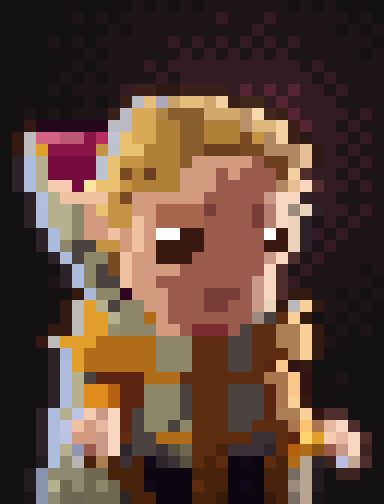
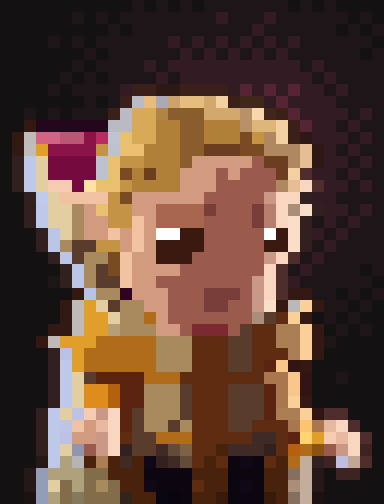
Director fixes: Invoker palette + steady orb light, bars above heads (wider), lean by camera up (no off-centre tilt), 1 px outline, Sun Strike strong light
- voxactors: lean tilts about the shared camera up vector (leanOf), so off-centre units no longer lean sideways; pick boxes, bars, Invoker FX and orbs use the same math
- HP bars anchor to the leaned head top with a gap, wider (hero 24 / creep 10 per unit, hero min 64)
- Invoker: warmer, deeper coat ramps; orb light is small and steady (no ground flicker / body wash); portrait regenerated
- Sun Strike: impact light x2 intensity and wider, extra column light, hotter HDR ray / core, taller flame bands, denser flame pixels, fainter smoke
- post: outline 1 px

diff --git a/client/src/render/fx/invoker.js b/client/src/render/fx/invoker.js
@@ -5,7 +5,7 @@
 // Lights: c.glow / c.lightNow kept moderate (c.glow already x0.6): subtle bloom, never a whiteout.
 import { EV } from '../../../../shared/protocol.js';
 import { PAL, ORB, rnd, pick, TAU, elemMul } from './common.js';
-import { LEAN_TO, LEAN_K } from '../voxactors.js';
+import { leanOf } from '../voxactors.js';
 
 const ELEM_PAL = { Q: PAL.ice, W: PAL.arc, E: PAL.fire };
 const COLD = [0.7, 1.6, 2.6];
@@ -38,13 +38,9 @@ export function register(c, R) {
   // plus the foot pull that keeps geometry there in front of / behind him like his own foot card (see geo3d foot). Shared result object.
   const _b = { x: 0, y: 0, z: 0, pull: 20 };
   function bodyAt(u, h) {
-    const z0 = u.z || 0, cp = c.uniforms && c.uniforms.uCamPos ? c.uniforms.uCamPos.value : null;
+    const z0 = u.z || 0, up = c.uniforms && c.uniforms.uCamUp ? c.uniforms.uCamUp.value : null;
     let s = 0, co = 1, vx = 0, vy = -1;
-    if (cp) {
-      const dx = cp.x - u.x, dy = -cp.z - u.y, l = Math.hypot(dx, dy);
-      if (l > 1) { vx = dx / l; vy = dy / l; }
-      const th = Math.max(0, Math.atan2(cp.y - z0, l) - LEAN_TO) * LEAN_K; s = Math.sin(th); co = Math.cos(th);
-    }
+    if (up) { const L = leanOf(up); vx = -L.dx; vy = -L.dy; s = Math.sin(L.th); co = Math.cos(L.th); }   // v = toward the camera
     _b.x = u.x - vx * h * s; _b.y = u.y - vy * h * s; _b.z = z0 + h * co; _b.pull = 20 + h * s;
     return _b;
   }
@@ -393,13 +389,14 @@ export function register(c, R) {
   // r 132, 1.1 s), ring_b (#8b4715, r 240, 0.35 s), ground glows glow_b / c / d (white -> #833839, #febc80 / #fde06b), glow_e (peach,
   // 0.25-0.45 s), light (r 700 -> 175, 1.25 s), dark smoke burst (#081830, alpha over) + ambient smoke (#5a5955, 2.8 s + 2-2.5 s), sparks /
   // ash / flame / ambient sparks as 1/4-count pixels, crater (#ceb5a4, 5.2 s) + scorch (8 s) decals.
-  // Director tweak (flamier, emissive): hotter yellow -> orange palette (ray / beam / rings / glows), HDR ray core, 3 licking flame bands +
-  // hot core at the base (1.1 s), rising flame pixels, lighter dark smoke.
+  // Director tweaks (flamier, emissive, a strong light): hotter yellow -> orange palette (ray / beam / rings / glows), HDR ray core, 3 tall
+  // licking flame bands + hot core at the base (1.4 s), dense rising flame pixels, faint dark smoke; the light is a strong warm one (impact
+  // r up to ~900, plus a second light up the column while the ray burns) that floods the ground and every unit near it.
   const SS = {
     team: [0.42, 0.41, 0.36], teamB: [0.55, 0.57, 0.6], edge0: [0.5, 0.5, 0.5], edge1: [0.42, 0.3, 0.07], glowS: [0.4, 0.44, 0.48],
     flare0: [1.0, 0.93, 0.85], flare1: [1.0, 0.24, 0.0],
-    ray0: [1.0, 0.92, 0.6], ray1: [1.0, 0.4, 0.06], beam: [0.95, 0.34, 0.05], ringB: [1.0, 0.46, 0.1], ringC: [1.0, 0.7, 0.35],
-    ring: [0.75, 0.36, 0.12], glwB0: [1.0, 0.6, 0.2], glwB1: [0.4, 0.08, 0.02], flm: [1.0, 0.36, 0.04], flmCore: [1.5, 0.9, 0.3], glw: [1.0, 0.81, 0.46], grey0: [0.15, 0.15, 0.15],
+    ray0: [1.0, 0.84, 0.4], ray1: [1.0, 0.36, 0.04], beam: [0.95, 0.34, 0.05], ringB: [1.0, 0.46, 0.1], ringC: [1.0, 0.7, 0.35],
+    ring: [0.75, 0.36, 0.12], glwB0: [1.0, 0.6, 0.2], glwB1: [0.4, 0.08, 0.02], flm: [1.2, 0.42, 0.05], flmCore: [2.2, 1.2, 0.32], glw: [1.0, 0.81, 0.46], grey0: [0.15, 0.15, 0.15],
     glowE: [1.0, 0.78, 0.68], dark: [0.03, 0.09, 0.19], smoke: [0.42, 0.42, 0.4],
   };
   const SS_SPK = { hot: [1.25, 0.88, 0.6], mid: [0.9, 0.62, 0.4], low: [0.55, 0.16, 0.03], dim: [0.2, 0.05, 0.01], lt: [1, 0.6, 0.3], ramp: null };   // #876146 / #5d5235 -> #591805
@@ -448,14 +445,14 @@ export function register(c, R) {
       const cRay = [0, 0, 0], cCore = [0, 0, 0], cB = [0, 0, 0], cC = [0, 0, 0];
       const oFl = [0, 1, 2].map(() => ({ sweep: TAU / 3 - 0.3, start: 0, edge: 0.35, swirl: 0.9, pow: 0.9, flare: 1, top: 0.45, phase: 0, foot: z, footPull: 20 }));
       const oFc = { swirl: 0.6, pow: 0.6, top: 0.4, phase: 0, foot: z, footPull: 20 };
-      const lt = c.glow(x, y, z + 64, SS.glw, rad * 4, 0, 1.25, { mode: 'flat' });
+      const lt = c.glow(x, y, z + 64, SS.glw, rad * 4, 0, 1.25, { mode: 'flat' }), ltR = c.glow(x, y, z + 240, SS.ray0, rad * 3, 0, 0.7, { mode: 'flat' });
       c.run(1.6, (r, dt) => {
         const t = r.t;
         if (t < 0.6) {                                                                                  // ray (0.6 s) + ray_b (0.5 s, the hot core)
           const k = t / 0.6, s = k < 0.6 ? 2 - 1.9 * k / 0.6 : k < 0.75 ? 0.1 : 0.1 + 0.9 * ssBias((k - 0.75) / 0.25, 0.15);
           const R0 = rad * 0.5 * s;
-          G.tube(x, y, z, 1000, R0, R0, mix3(cRay, SS.ray0, SS.ray1, k, 1.1), Math.min(1, k / 0.25, (1 - k) / 0.5), oRay);
-          if (t < 0.5) G.tube(x, y, z, 1000, R0 * 0.3, R0 * 0.3, mix3(cCore, SS.ray0, SS.ray1, t / 0.5, 2.0), Math.min(1, t / 0.125, (0.5 - t) / 0.375), oCore);
+          G.tube(x, y, z, 1000, R0, R0, mix3(cRay, SS.ray0, SS.ray1, k, 1.45), Math.min(1, k / 0.25, (1 - k) / 0.5), oRay);
+          if (t < 0.5) G.tube(x, y, z, 1000, R0 * 0.3, R0 * 0.3, mix3(cCore, SS.ray0, SS.ray1, t / 0.5, 2.6), Math.min(1, t / 0.125, (0.5 - t) / 0.375), oCore);
           const kb = Math.min(1, t / 0.3), Rb = 288 - 252 * ssBias(kb, 0.85);                           // beam: trails r 576 -> 32 (half), alpha ~.05
           G.tube(x, y, z + 128, 1700 * kb, Rb, Rb * 0.5, SS.beam, 0.6 * (1 - k), oBeam);
         }
@@ -473,14 +470,15 @@ export function register(c, R) {
         { const k = t / 1.5; G.disc(x, y, gz, 560 * ssBias(Math.min(1, k), 0.75), 3, mix3(cC, SS.glw, SS.grey0, Math.max(0, k - 0.33) / 1.0, 0.3), 1 - k, dGC); }   // glow_c (mod2x)
         if (t < 1) G.disc(x, y, gz, rad * 0.8 * (2 - 1.9 * Math.min(1, t / 0.5)), 3, SS.glw, 0.55 * (1 - t), dGD);               // glow_d
         if (t < 0.45) { const k = Math.min(1, t / 0.35); G.orb(x, y, z + 8, 6 * (1 + 47 * ssBias(k, 0.65)) * 0.35, SS.glowE, 0.3 * (1 - k), G.GLOW, oE); }   // glow_e (mod2x)
-        if (t < 1.25) { const k = t / 1.25; lt.rad = rad * 2 * (2 - 1.5 * ssBias(k, 0.25)); lt.int = 1.6 * Math.min(1, k / 0.25, (1 - k) / 0.75); }   // light
-        if (t < 0.6) { const e = 1 - (1 - t / 0.6) * (1 - t / 0.6); oDark.phase = c.T * 2; G.tube(x, y, z, 30 + 140 * e, 50 + 110 * e, 40 + 130 * e, SS.dark, 0.3 * (1 - t / 0.6), oDark); }   // orange_smoke (dark)
-        if (t < 1.1) {                                                                                  // flame tongues (director: flamier): 3 licking swirl bands + hot core
-          const e = 1 - Math.pow(1 - Math.min(1, t / 0.15), 3), f = Math.min(1, (1.1 - t) / 0.6), h = 380 * e * (0.6 + 0.4 * f);
-          for (let i = 0; i < 3; i++) { const o = oFl[i]; o.start = TAU * i / 3 + c.T * 2.2; o.phase = c.T * 9 + i * 2; G.tube(x, y, z, h * (1 - 0.15 * i), rad * 0.55, rad * 0.12, SS.flm, 0.9 * f, o); }
-          oFc.phase = c.T * 12; G.tube(x, y, z, h * 0.55, rad * 0.25, rad * 0.06, SS.flmCore, 0.8 * f, oFc);
+        if (t < 1.25) { const k = t / 1.25; lt.rad = rad * 2.6 * (2 - 1.5 * ssBias(k, 0.25)); lt.int = 3.2 * Math.min(1, k / 0.15, (1 - k) / 0.75); }   // light (director: strong)
+        if (t < 0.7) { const k = t / 0.7; ltR.rad = rad * 3; ltR.int = 2.4 * Math.min(1, k / 0.1, (1 - k) / 0.5); }                         // column light while the ray burns
+        if (t < 0.6) { const e = 1 - (1 - t / 0.6) * (1 - t / 0.6); oDark.phase = c.T * 2; G.tube(x, y, z, 30 + 140 * e, 50 + 110 * e, 40 + 130 * e, SS.dark, 0.12 * (1 - t / 0.6), oDark); }   // orange_smoke (dark)
+        if (t < 1.4) {                                                                                  // flame tongues (director: flamier): 3 licking swirl bands + hot core
+          const e = 1 - Math.pow(1 - Math.min(1, t / 0.15), 3), f = Math.min(1, (1.4 - t) / 0.7), h = 520 * e * (0.6 + 0.4 * f);
+          for (let i = 0; i < 3; i++) { const o = oFl[i]; o.start = TAU * i / 3 + c.T * 2.2; o.phase = c.T * 9 + i * 2; G.tube(x, y, z, h * (1 - 0.15 * i), rad * 0.68, rad * 0.14, SS.flm, f, o); }
+          oFc.phase = c.T * 12; G.tube(x, y, z, h * 0.6, rad * 0.3, rad * 0.07, SS.flmCore, 0.9 * f, oFc);
         }
-        if (t < 0.9) { const n = c.n(60 * dt); for (let i = 0; i < n; i++) { const an = Math.random() * TAU, rr = rnd(0, rad * 0.7); P.spawn(c.pix(SS_FLM, { x: x + Math.cos(an) * rr, y: y + Math.sin(an) * rr, z: z + rnd(4, 60), life: [0.4, 0.8], px: [1, 2], speed: 0, up: [180, 420], gravity: 60, drag: 1.2, settle: false })); } }   // rising flame pixels
+        if (t < 1.2) { const n = c.n(150 * dt); for (let i = 0; i < n; i++) { const an = Math.random() * TAU, rr = rnd(0, rad * 0.7); P.spawn(c.pix(SS_FLM, { x: x + Math.cos(an) * rr, y: y + Math.sin(an) * rr, z: z + rnd(4, 60), life: [0.4, 0.8], px: [1, 2], speed: 0, up: [180, 420], gravity: 60, drag: 1.2, settle: false })); } }   // rising flame pixels
         // pixels at 1/4 of the game counts
         if (t < 0.25) { const n = c.n(112 * dt); for (let i = 0; i < n; i++) { const an = Math.random() * TAU; P.spawn(c.pix(SS_SPK, { x: x + Math.cos(an) * 72, y: y + Math.sin(an) * 72, z: z + 4, life: [0.5, 1], px: [1, 2], speed: 0, vel: [rnd(-400, 400), rnd(-400, 400), 0], up: [250, 600], gravity: -650, drag: 0.3 })); } }   // sparks
         if (t < 0.5) { const n = c.n(100 * dt); for (let i = 0; i < n; i++) P.spawn(c.pix(SS_ASH, { x: x + rnd(-30, 30), y: y + rnd(-30, 30), z: z + rnd(3, 300), life: [1, 1.2], px: 1, speed: 0, jitter: 24, up: [100, 200], gravity: -100, drag: 1.5, settle: false })); }   // ashes

diff --git a/client/src/render/index.js b/client/src/render/index.js
@@ -17,7 +17,7 @@ import { createSprites } from './sprites.js';
 import { createActors } from './actors.js';
 import { createBuildings3d } from './buildings3d.js';
 import { createTrees3d } from './trees3d.js';
-import { createVoxActors, LEAN_TO, LEAN_K } from './voxactors.js';
+import { createVoxActors, leanOf as voxLean } from './voxactors.js';
 import { INFO as BINFO } from './buildings3d.js';
 import { pickAt, cylinderBox, minBox } from './pick.js';
 import { createClutter3d } from './clutter3d.js';
@@ -200,12 +200,6 @@ export function createRenderer({ canvas, sheets }) {
     const w = _v4.w; if (w <= 0) return null;
     return { sx: (_v4.x / w * 0.5 + 0.5) * cssW, sy: (1 - (_v4.y / w * 0.5 + 0.5)) * cssH, w, k: 0.5 * cssH * cam.projectionMatrix.elements[5] / w };
   }
-  /** Lean of a voxel model (voxactors.js vertex shader): tilt th about the feet away from the camera. */
-  function leanOf(x, y, z) {
-    const c = rig.camera.position, dx = x - c.x, dz = -y - c.z, hl = Math.hypot(dx, dz);
-    if (hl < 1e-3) return null;
-    return { dx: dx / hl, dy: -dz / hl, th: Math.max(0, Math.atan2(c.y - z, hl) - LEAN_TO) * LEAN_K };
-  }
   /** Screen boxes (css px) of every live unit this frame: [{ id, building, x0, y0, x1, y1, w }]. Voxel units and buildings: world cylinder of the body
    *  through the camera (perspective-correct); sprite units: tight opaque bounds of the drawn frame. */
   function pickBoxes(touch = false) {
@@ -218,7 +212,7 @@ export function createRenderer({ canvas, sheets }) {
         const bi = BINFO[p.b], k = BODY_K[p.b] || BODY_K.filler;
         box = cylinderBox(projCss, p.x, p.y, p.z, bi.R * k[0], bi.H * k[1], { pad: k[2], touch });
       } else if (f.vox) {
-        box = cylinderBox(projCss, p.x, p.y, p.z, (f.hw || f.r) * p.scale, (f.ptop || f.top) * p.scale, { lean: f.lean === false ? null : leanOf(p.x, p.y, p.z), touch });
+        box = cylinderBox(projCss, p.x, p.y, p.z, (f.hw || f.r) * p.scale, (f.ptop || f.top) * p.scale, { lean: f.lean === false ? null : voxLean(uniforms.uCamUp.value), touch });
       } else {
         _v4.set(p.x, p.z, -p.y, 1).applyMatrix4(cam.matrixWorldInverse).applyMatrix4(cam.projectionMatrix);
         const w = _v4.w; if (w <= 0) continue;
@@ -285,7 +279,7 @@ export function createRenderer({ canvas, sheets }) {
   }
 
   // ---- HP bars -------------------------------------------------------------------------------------------------------------------------
-  const BAR_W = { hero: 17, creep: 6, tower: 10, rax: 10, ancient: 14, fountain: 0, building: 8 };
+  const BAR_W = { hero: 24, creep: 10, tower: 10, rax: 10, ancient: 14, fountain: 0, building: 8 };   // art px
   /** 0..1 visibility of world-anchored UI (bars, combat text): 1 in normal play; in the showcase it fades out where the mist starts and behind the camera. k = perspective size factor vs the target. */
   const _e = new THREE.Vector3(), uiVis = { a: 1, k: 1 };
   function uiFade(x, y, z) {
@@ -314,13 +308,21 @@ export function createRenderer({ canvas, sheets }) {
       if (!hero && !hurt && p.id !== actors.state.selected && p.id !== actors.state.hover) continue;
       const aw = BAR_W[u.kind] != null ? BAR_W[u.kind] : 6;
       if (!aw) continue;
-      const bz = p.z + p.f.ay / (p.f.dens || 1) * ART_UNITS_PER_PX * 0.92 * (p.f.vox ? p.scale : 1), vis = uiFade(u.x, u.y, bz);
+      // anchor: the top of the drawn body. Voxel units lean back (voxactors.js leanOf), so their head sits higher on screen than the upright top
+      let bx = u.x, by = u.y, bz;
+      if (p.f.vox) {
+        const ht = (p.f.ptop || p.f.top) * p.scale, L = p.f.lean === false ? null : voxLean(uniforms.uCamUp.value), sn = L ? Math.sin(L.th) * ht : 0;
+        if (L) { bx += L.dx * sn; by += L.dy * sn; }
+        bz = p.z + (L ? Math.cos(L.th) : 1) * ht;
+      } else bz = p.z + p.f.ay / (p.f.dens || 1) * ART_UNITS_PER_PX * 0.92;
+      const vis = uiFade(u.x, u.y, bz);
       if (vis.a <= 0.02) continue;
-      const w = Math.round(Math.min(hero ? 150 : 90, (hero ? Math.max(46, aw * cssPerArt * 0.95) : aw * cssPerArt * 0.95) * vis.k));   // capped: the showcase close-up never draws giant bars
+      const w = Math.round(Math.min(hero ? 190 : 110, (hero ? Math.max(64, aw * cssPerArt * 0.95) : aw * cssPerArt * 0.95) * vis.k));   // capped: the showcase close-up never draws giant bars
       const hh = hero ? Math.max(5, Math.round(Math.max(8, Math.min(14, cssPerArt * 3)) * vis.k)) : 3;   // hero bar: big enough to read on a phone
-      const s = worldToScreen(u.x, u.y, bz);
+      const mana = hero && u.maxMana > 0, stack = hh + 1 + (mana ? (hh >= 7 ? Math.max(3, Math.round(hh * 0.45)) : 2) + 1 : 0);   // overlay.bar: hp + gap + mana + frame
+      const s = worldToScreen(bx, by, bz);
       const mine = u.team === myTeam;
-      overlay.bar({ sx: s.x, sy: s.y - 6 - (hero ? Math.round(hh * 1.8) : 0), w, h: hh, hp: u.hp / u.maxHp, mana: hero && u.maxMana > 0 ? u.mana / u.maxMana : null, color: mine ? undefined : '#e04a3c', maxHp: hero ? u.maxHp : 0, level: hero ? u.level : null, a: vis.a });
+      overlay.bar({ sx: s.x, sy: s.y - (hero ? 6 : 4) - stack, w, h: hh, hp: u.hp / u.maxHp, mana: mana ? u.mana / u.maxMana : null, color: mine ? undefined : '#e04a3c', maxHp: hero ? u.maxHp : 0, level: hero ? u.level : null, a: vis.a });
     }
   }
 

diff --git a/client/src/render/fx/status.js b/client/src/render/fx/status.js
@@ -1,7 +1,7 @@
 // Ambient status visuals (stun stars, hex, magic immunity, slow, invis, channel ...) and the Invoker orbs.
 import { ST } from '../../../../shared/protocol.js';
 import { PAL, ORB, elemMul, rnd, TAU } from './common.js';
-import { LEAN_TO, LEAN_K } from '../voxactors.js';
+import { leanOf } from '../voxactors.js';
 
 const STUN_COL = [3.4, 2.8, 0.7];
 const GOLD = PAL.gold;
@@ -13,8 +13,7 @@ export function register(c, R) {
   const orbBuf = [0, 0, 0];
 
   // Orbs = real 3D geometry (fx/geo3d.js G.orb, GLOW): an HDR core inside a fresnel shell, about head-sized on the chibi (Dota: sphere r 16),
-  // no billboard glow and no sprite quad. Each orb is a real light (tight radius, so the three colours never sum to white): it rims his
-  // side in its element colour and pools on the ground under it.
+  // no billboard glow and no sprite quad. Each orb is a small steady real light: a faint element-colour rim on his side, no ground pool.
   // Depth: voxel units write the depth of their FOOT (mesh3d propDepth: foot card pulled 12 + 8 toward the camera), so the orbs use o.foot
   // with the same pull: an orb on the far half of the ring is hidden whole by his silhouette, one on the near half is drawn whole; the
   // swap happens at the sides, outside his body. Never chopped, never over his face.
@@ -34,15 +33,13 @@ export function register(c, R) {
     const alive = !(u.status & ST.DEAD) && u.hp > 0; if (!alive) return;
     const G = c.G, lo = G.lod === 0;
     // camera direction in the ground plane (three: X = x, Z = -y): which half of the ring is near (particles use real depth, see below)
-    const cp = c.uniforms && c.uniforms.uCamPos ? c.uniforms.uCamPos.value : null;
+    const up = c.uniforms && c.uniforms.uCamUp ? c.uniforms.uCamUp.value : null;
     const z0 = u.z || 0, zc = c.chest(u) + Math.sin(c.T * 2) * 3;   // chest height
     let vx = 0, vy = -1, lc = 1, ls = 0;
-    if (cp) {
-      const dx = cp.x - u.x, dy = -cp.z - u.y, l = Math.hypot(dx, dy);
-      if (l > 1) { vx = dx / l; vy = dy / l; }
-      // follow the voxel lean (voxactors.js): the body tilts back about its feet so the camera sees it from LEAN_TO; the ring tilts with it,
+    if (up) {
+      // follow the voxel lean (voxactors.js leanOf): the body tilts back about its feet so the camera sees it from LEAN_TO; the ring tilts with it,
       // so from the 60 deg game camera the orbs sit round the chest as in the showcase (not at the knees in front, hidden above the head behind)
-      const th = Math.max(0, Math.atan2(cp.y - z0, l) - LEAN_TO) * LEAN_K; lc = Math.cos(th); ls = Math.sin(th);
+      const L = leanOf(up); vx = -L.dx; vy = -L.dy; lc = Math.cos(L.th); ls = Math.sin(L.th);   // v = toward the camera
     }
     const hz = zc - z0;
     oShell.foot = oCore.foot = z0;
@@ -62,9 +59,9 @@ export function register(c, R) {
       const k = ch === 'W' ? (mul > 1 ? 1.15 : 0.8) : mul;
       G.orb(ox, oy, oz, CORE_R * (ch === 'E' ? 0.9 + 0.1 * k : 1), L.core, 0.8 + 0.2 * k, G.GLOW, oCore);
       G.orb(ox, oy, oz, ORB_R, L.shell, k, G.GLOW, oShell);
-      // per-orb light, tight (r 115): rims his side in the element colour + a soft pool on the ground under it. Trainer behaviour:
-      // E flickers, W strobes, Q steady
-      c.lightNow(ox + ca * 16, oy + sa * 16, oz, L.lt, 115, 0.6 * mul, 0);   // set outward a little: grazes his side (rim) rather than washing his front
+      // per-orb light: small (r 70, never reaches the ground from chest height) and steady (the strobe / flicker stays on the orb body: a flickering
+      // ground pool reads as noise), set outward so it only grazes his side; three stronger lights washed his whole body out
+      c.lightNow(ox + ca * 24, oy + sa * 24, oz, L.lt, 70, 0.25, 0);
       // pixels use real depth (they would show through him from behind): only the near half emits. Crisp single art pixels in the
       // element's hot / core colours, no cold ramp steps (a cooled grey pixel left hanging reads as a big square up close)
       if (near < -0.15) continue;

diff --git a/client/src/render/voxactors.js b/client/src/render/voxactors.js
@@ -2,7 +2,7 @@
 // buildings3d.js (shadow map, key + point lights, Bayer-quantised light, fog grade). Outline: an ID pass (idScene: outline colour + per-instance id, same vertex
 // shader and depth) that post.js turns into a 1-art-px silhouette line (render/post.js OUTLINE), so inner depth steps never get a line.
 // What makes a ~44-voxel chibi read from the 60 deg game camera:
-//   - lean: the model tilts back about its feet, away from the camera, so the camera sees it from ~LEAN_TO deg like the offline renders
+//   - lean: the model tilts back about its feet, away from the camera (along its view direction, the same for every unit: leanOf), so the camera sees it from ~LEAN_TO deg like the offline renders
 //     (pitch 30), not from above (top of the hair, no face). Shadow passes use the same lean, so self-shadow lands where it is drawn.
 //   - smooth per-voxel normals (aSm) for the light, so the blocks shade like rounded forms; faces stay voxel-crisp.
 //   - depth = sprites: the foot point (propDepth), so units sort like the 2D sheets.
@@ -60,6 +60,16 @@ export function voxEntry(mod, o = {}) {
 export const VOX_HEROES = VOX_UNITS;   // old name
 export const LEAN_TO = 30 * Math.PI / 180;    // view pitch the model is shown at (deg above the horizon)
 export const LEAN_K = 1;                      // share of (camera pitch - LEAN_TO) taken by the lean
+const _lean = { dx: 0, dy: 1, th: 0 };
+/** The voxel lean, one for every unit on screen (the VERT shader does the same): tilt th about the feet along (dx, dy) in game coords = the view
+ *  camera's horizontal forward, by (camera pitch - LEAN_TO). From the camera up vector (uniforms.uCamUp). Not per unit: a unit off the screen
+ *  centre would lean along its own camera ray (sideways on screen). Shared result object. */
+export function leanOf(up) {
+  const hl = Math.hypot(up.x, up.z);
+  if (hl < 1e-6) { _lean.dx = 0; _lean.dy = 1; _lean.th = 0; return _lean; }
+  _lean.dx = up.x / hl; _lean.dy = -up.z / hl; _lean.th = Math.max(0, Math.atan2(hl, up.y) - LEAN_TO) * LEAN_K;
+  return _lean;
+}
 // voxel death (world units, seconds): burst speed out / up, gravity, bounce restitution, ground slide kept after the bounce, launch stagger,
 // lean release, dissolve start (+ up to DIE_FADE_J per voxel) -> fully gone at DIE_T
 export const DIE_T = 1.45;   // dissolve length, counted from the end of the ragdoll (RAG_T) for heroes
@@ -145,10 +155,9 @@ void main(){
     }
     alpha *= 1. - smoothstep(${DIE_FADE.toFixed(3)} + ${DIE_FADE_J.toFixed(3)} * r0, ${DIE_T.toFixed(3)}, td);
   } else o = rotY(p, c, s) * sc;
-  vec3 tc = uCamPos - iPos;                                     // shadow passes lean too (uCamPos = view camera), so self-shadow matches the drawn body
-  float hl = length(tc.xz);
-  vec2 h = hl > 1e-3 ? -tc.xz / hl : vec2(0., -1.);
-  float th = max(0., atan(tc.y, hl) - uLeanTo) * uLeanK * (1. - die * smoothstep(0., ${DIE_LEAN.toFixed(3)}, dt)), lc = cos(th), ls = sin(th);
+  float hl = length(uCamUp.xz);                                 // view camera forward (its up vector tilts along it): one lean for every unit (leanOf);
+  vec2 h = hl > 1e-6 ? uCamUp.xz / hl : vec2(0., -1.);           // shadow passes lean too (uCamUp = view camera), so self-shadow matches the drawn body
+  float th = max(0., atan(hl, uCamUp.y) - uLeanTo) * uLeanK * (1. - die * smoothstep(0., ${DIE_LEAN.toFixed(3)}, dt)), lc = cos(th), ls = sin(th);
   o = lean(o, h, lc, ls); n = lean(n, h, lc, ls);
   vec3 w = iPos + o;
   vec3 al = aCol;                                                // team voxels: the team colour at the voxel's own ramp luminance

diff --git a/client/src/art/portraits/invoker.js b/client/src/art/portraits/invoker.js
@@ -1,7 +1,7 @@
 // GENERATED by tools/vox/portrait.mjs (invoker) -- do not edit by hand. Voxel HUD portrait 32x42 (= the 32x42 the HUD shows, 1 art px = 1 u), opaque.
 // Loaded by client/src/art/portraits.js, which swaps it into the sheet's 'portrait' frame unless ?vox=0.
 export default {
-  pal: { '0':'#341812', '1':'#0c0611', '2':'#b6b08e', '3':'#f9d6bf', '4':'#5a2410', '5':'#aebcdd', '6':'#3a2019', '7':'#c49444', '8':'#e09e2a', '9':'#f0c2a2', '!':'#141112', '#':'#1e1518', '$':'#331b23', '%':'#9a5a4c', '&':'#5e2c10', '(':'#d29a7e', ')':'#8e8668', '*':'#4c4240', '+':'#2c2228', ',':'#b06c18', '-':'#49220c', '/':'#b08038', ':':'#3a1a10', ';':'#4f2d2d', '<':'#8a5e2c', '=':'#740a3e', '>':'#ca9886', '?':'#6f6951', '@':'#e8c070', 'A':'#a8664e', 'B':'#7a3e3a', 'C':'#ac7e54', 'D':'#3a3036', 'E':'#7a4a22', 'F':'#6a3e1e', 'G':'#f9d098', 'H':'#552435', 'I':'#d8aa58', 'J':'#24071c', 'K':'#af8760', 'L':'#aa764e', 'M':'#8e896f', 'N':'#2d1815', 'O':'#8a1448', 'P':'#ead3ba', 'Q':'#acbadb', 'R':'#221b1f', 'S':'#d2a86d', 'T':'#f3d0a2', 'U':'#f5ccb1', 'V':'#bebab8', 'W':'#321512', 'X':'#e08c1c', 'Y':'#3e2323', 'Z':'#100816', '[':'#b7a591', ']':'#e6bd7d', '^':'#41261a', '_':'#b9bac3', 'a':'#bdc2cf', 'b':'#e6be94', 'c':'#9b8b7d', 'd':'#ffffff', 'e':'#7a2a30', 'f':'#f9c78c', 'g':'#b4600e', 'h':'#e6b89f', 'i':'#2d252a', 'j':'#8893ac', 'k':'#b99168', 'l':'#deb679', 'm':'#d26382', 'n':'#bb5775', 'o':'#b57e6e', 'p':'#a9b7d9', 'q':'#56503e', 'r':'#796c62', 's':'#1a1417', 't':'#371a09', 'u':'#b9bbc5', 'v':'#aba9b7', 'w':'#cba16c', 'x':'#b08444', 'y':'#f8d7ad', 'z':'#bebbba', '{':'#b82c62', '|':'#bec4d1', '}':'#bfbcbb', '~':'#fce4a0', '¡':'#b0bedf', '¢':'#2e0420', '£':'#bbb8ba', '¤':'#948c6c', '¥':'#bfc2e3', '¦':'#bfc3e5', '§':'#fcc471', '¨':'#bfc1e3', '©':'#ffd470', 'ª':'#9395b0', '«':'#6e6650', '¬':'#895413', '®':'#b7b4b6', '¯':'#bdbfe1', '°':'#c2a795', '±':'#6a6653', '²':'#2c2625', '³':'#09050d' },
+  pal: { '0':'#341812', '1':'#0c0611', '2':'#e2cea0', '3':'#f9d6bf', '4':'#5a2410', '5':'#bec9ea', '6':'#3a2019', '7':'#c49444', '8':'#e09e2a', '9':'#f0c2a2', '!':'#141112', '#':'#1e1518', '$':'#331b23', '%':'#9a5a4c', '&':'#5e2c10', '(':'#d29a7e', ')':'#a88a5e', '*':'#5a3c2c', '+':'#321f1f', ',':'#b06c18', '-':'#49220c', '/':'#b08038', ':':'#3a1a10', ';':'#4f2d2d', '<':'#8a5e2c', '=':'#740a3e', '>':'#ca9886', '?':'#836c49', '@':'#e8c070', 'A':'#a8664e', 'B':'#7a3e3a', 'C':'#ac7e54', 'D':'#402a26', 'E':'#7a4a22', 'F':'#6a3e1e', 'G':'#f9d098', 'H':'#552435', 'I':'#d8aa58', 'J':'#24071c', 'K':'#af8760', 'L':'#aa764e', 'M':'#b0a17d', 'N':'#2d1815', 'O':'#8a1448', 'P':'#f9dfc7', 'Q':'#bbc6e7', 'R':'#271818', 'S':'#d2a86d', 'T':'#f3d0a2', 'U':'#f5ccb1', 'V':'#bebab8', 'W':'#321512', 'X':'#e08c1c', 'Y':'#3e2323', 'Z':'#100816', '[':'#c2ae9b', ']':'#e6bd7d', '^':'#41261a', '_':'#b9bac3', 'a':'#bdc2cf', 'b':'#e6be94', 'c':'#aa8e7a', 'd':'#ffffff', 'e':'#7a2a30', 'f':'#f9c78c', 'g':'#b4600e', 'h':'#e6b89f', 'i':'#32211e', 'j':'#949db7', 'k':'#b99168', 'l':'#deb679', 'm':'#d26382', 'n':'#bb5775', 'o':'#b57e6e', 'p':'#b7c2e4', 'q':'#624c38', 'r':'#856f5f', 's':'#1d1212', 't':'#371a09', 'u':'#b9bbc5', 'v':'#aba9b7', 'w':'#cba16c', 'x':'#b08444', 'y':'#f8d7ad', 'z':'#bebbba', '{':'#b82c62', '|':'#bec4d1', '}':'#bfbcbb', '~':'#fce4a0', '¡':'#bfcbed', '¢':'#2e0420', '£':'#bbb8ba', '¤':'#b89e76', '¥':'#bfc2e3', '¦':'#bfc3e5', '§':'#fcc471', '¨':'#bfc1e3', '©':'#ffd470', 'ª':'#9395b0', '«':'#7e6248', '¬':'#895413', '®':'#b7b4b6', '¯':'#bdbfe1', '°':'#c2a795', '±':'#84785d', '²':'#34231a', '³':'#09050d' },
   face: [4, 11, 24, 24],
   rows: [
     '!!!!!!!!!!!#!#!#!#######!#!#!!!!',

diff --git a/shared/vox/heroes/invoker.js b/shared/vox/heroes/invoker.js
@@ -27,8 +27,8 @@ export function build(p = {}) {
   const M = {
     skin: useMat(v, 'skin', { ramp: ['#9a5a4c', '#d29a7e', '#f0c2a2', '#ffe2c8'] }),
     skinD: useMat(v, 'skinD', { ramp: ['#7a3e3a', '#a8664e', '#c8866a', '#e8aa88'] }),
-    coat: useMat(v, 'coat', { ramp: ['#4c4240', '#8e8668', '#b6b08e', '#dedabc'] }),
-    coatD: useMat(v, 'coatD', { ramp: ['#3a3036', '#6e6650', '#948c6c', '#bcb692'] }),
+    coat: useMat(v, 'coat', { ramp: ['#5a3c2c', '#a88a5e', '#e2cea0', '#fff4da'] }),
+    coatD: useMat(v, 'coatD', { ramp: ['#402a26', '#7e6248', '#b89e76', '#dcc69e'] }),
     robe: useMat(v, 'robe', { ramp: ['#100816', '#22142a', '#36223a', '#523a54'] }),
     collar: useMat(v, 'collar', { ramp: ['#2e0420', '#740a3e', '#a01c54', '#c84478'] }),
     collarL: useMat(v, 'collarL', { ramp: ['#3a0626', '#8a1448', '#b82c62', '#e05a88'] }),

diff --git a/client/src/render/post.js b/client/src/render/post.js
@@ -74,7 +74,7 @@ void main(){
 // ground / sky / farther unit), never a unit's own inner depth steps (same id); the line sits at the unit's depth, so fog / mist / DoF treat it
 // like the unit. Nearest unit wins on a crossing. 1 px of the low-res target = 1 art px.
 export const ID_BIAS = 1e-4;
-export const OUTLINE_PX = 2;   // line width in art px (round brush)
+export const OUTLINE_PX = 1;   // line width in art px (round brush)
 const DEPTH_COPY = /* glsl */ `
 precision highp float;
 uniform sampler2D tDepth;

diff --git a/docs/VOXEL.md b/docs/VOXEL.md
@@ -108,7 +108,7 @@ model.
 - **Light:** the `buildings3d.js` path (shadow map, key + point lights, Bayer-quantised, fog grade); key term `.3 + .55 N.L` keeps the shaded side readable.
 - **Lean:** characters tilt about the feet by `max(0, camPitch - 30 deg)` so the camera sees them at the offline ~30 deg. **Shadow passes lean too**, or the
   head shadows the face. Buildings `lean: false`.
-- **Outline:** screen-space, silhouette only (`post.js` OUTLINE). Each instance writes an id + line colour into an ID target (`idScene`); a 2 px line (`OUTLINE_PX`)
+- **Outline:** screen-space, silhouette only (`post.js` OUTLINE). Each instance writes an id + line colour into an ID target (`idScene`); a 1 px line (`OUTLINE_PX`)
   goes where the id changes, on the outer side of the nearer unit, at its depth. Inner depth steps never get a line. Dark by default, hover /
   selection colour when set; flying death voxels carry no id. Buildings share the pass (`buildings3d` `idGroup`). Setting `outlines`. Portraits match: `vox_portrait.mjs` `lines: 0`.
 - **Depth:** foot depth (`propDepth`) while sprites remain; real depth after batch 7.
